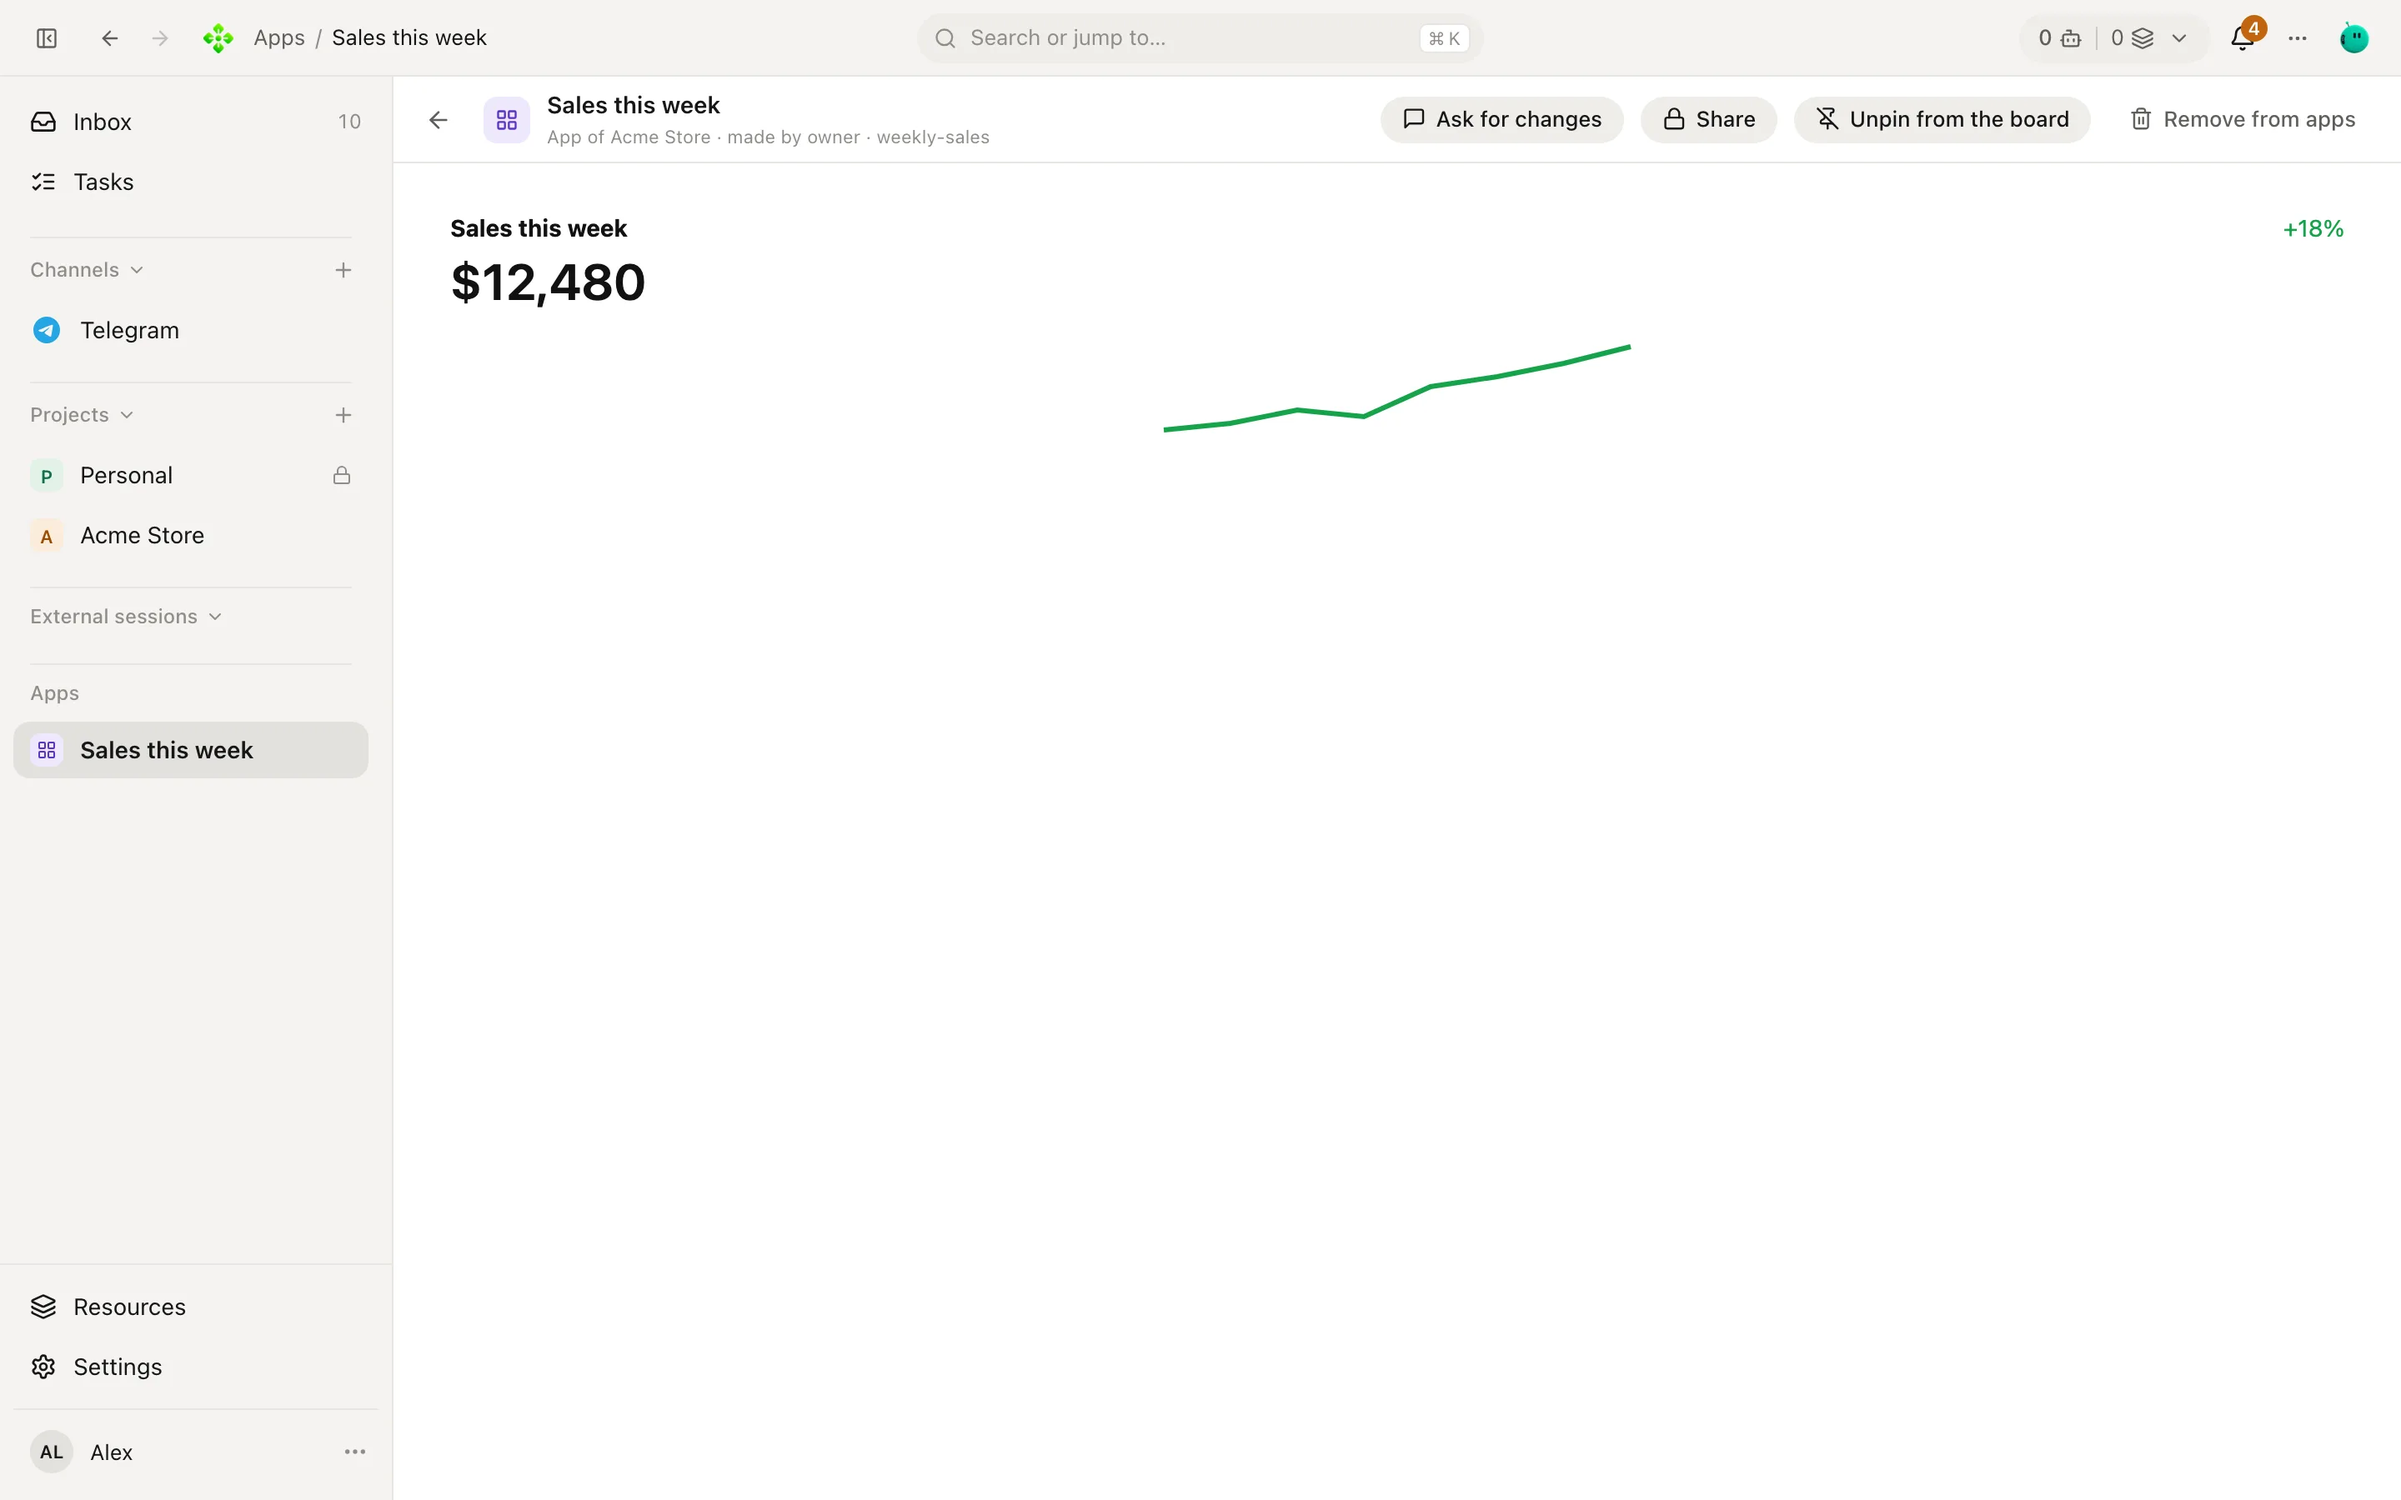
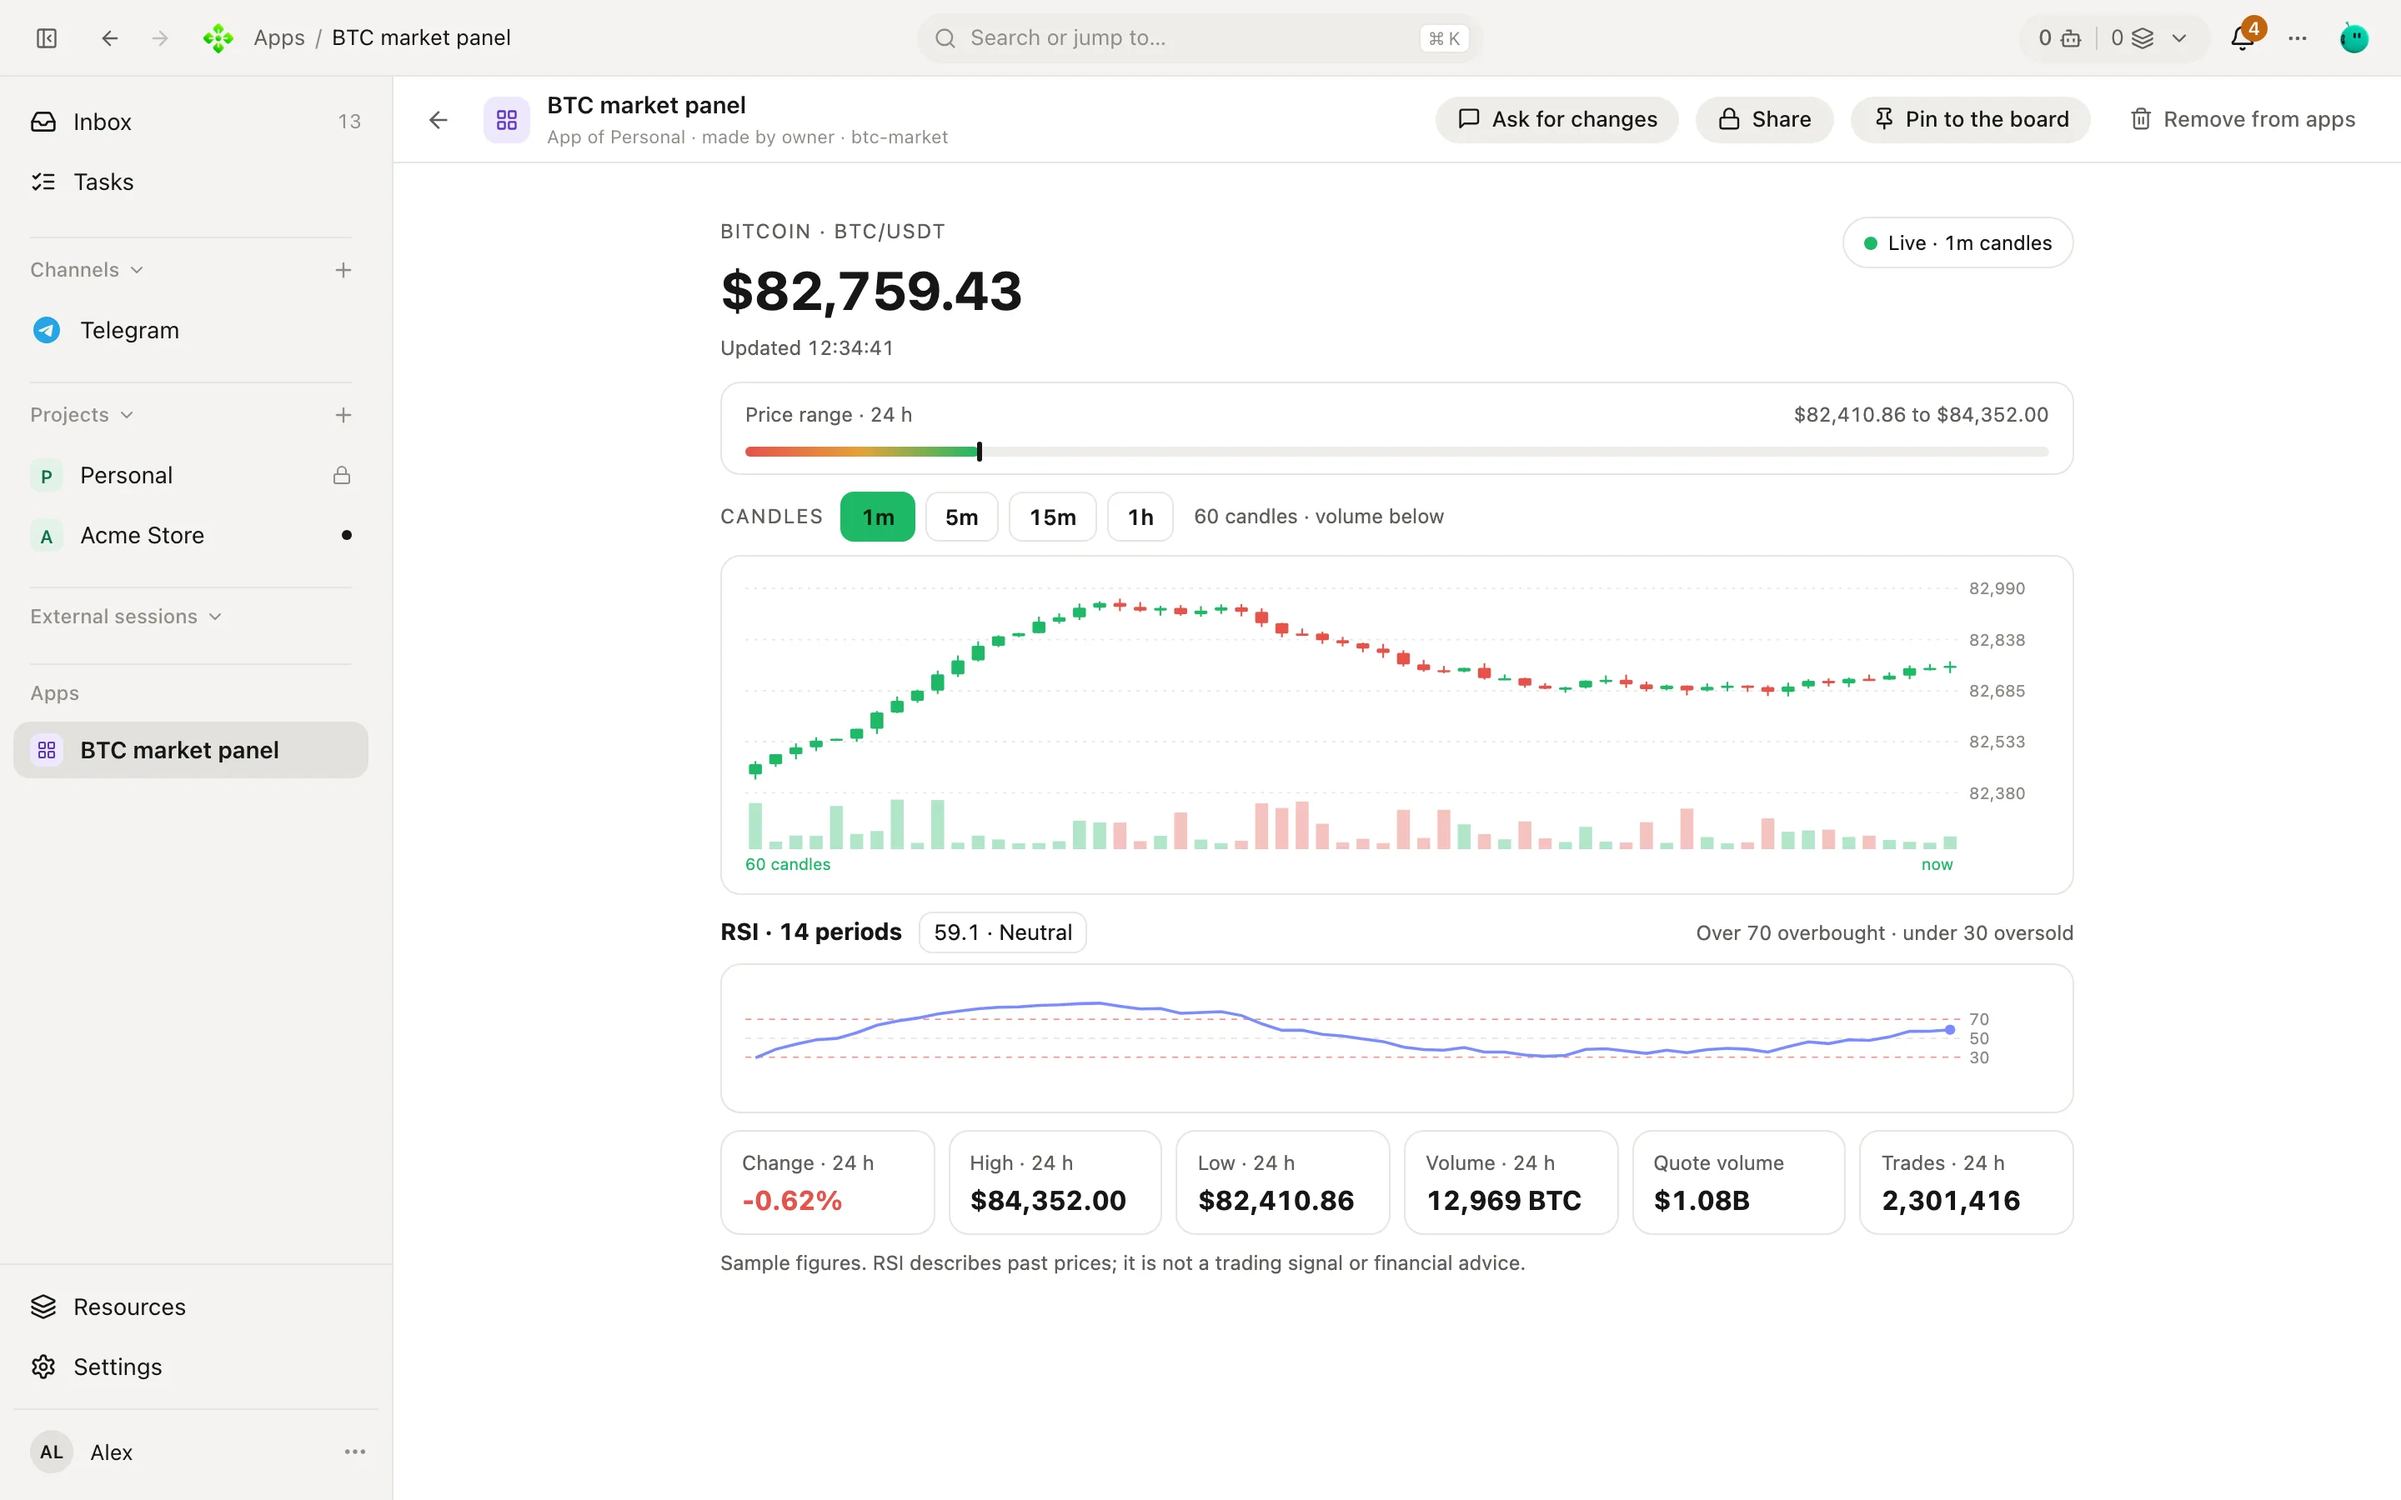
docs(site): the App screenshot shows a BTC market panel instead of a near-empty sales chart

diff --git a/apps/docs/scripts/demo-widgets/btc.html b/apps/docs/scripts/demo-widgets/btc.html
@@ -1,0 +1,158 @@
+<!doctype html>
+<html>
+<head>
+<style>
+:root{--up:#1fb866;--down:#e5534b}
+.w{max-width:860px;margin:0 auto;padding:16px 24px 14px;font-variant-numeric:tabular-nums}
+.k{font-size:12px;letter-spacing:.08em;text-transform:uppercase;color:var(--apx-fg-muted)}
+.row{display:flex;justify-content:space-between;align-items:center;gap:12px}
+.px{font-size:32px;font-weight:700;letter-spacing:-.01em;margin:4px 0 2px}
+.sub{font-size:12px;color:var(--apx-fg-muted)}
+.pill{border:1px solid var(--apx-border);border-radius:999px;padding:6px 12px;font-size:12px;display:flex;gap:7px;align-items:center;white-space:nowrap}
+.dot{width:8px;height:8px;border-radius:50%;background:var(--up)}
+.card{border:1px solid var(--apx-border);border-radius:12px;background:var(--apx-surface);padding:12px 14px}
+.range{margin:12px 0 10px;padding:10px 14px}
+.bar{position:relative;height:6px;border-radius:3px;background:var(--apx-fill);margin-top:10px}
+.bar i{position:absolute;inset:0 auto 0 0;border-radius:3px;background:linear-gradient(90deg,var(--down),#e3a33b,var(--up))}
+.bar b{position:absolute;top:-3px;width:3px;height:12px;border-radius:2px;background:var(--apx-fg)}
+.chips{display:flex;gap:6px;align-items:center}
+.chips button{font:inherit;font-size:13px;font-weight:600;border:1px solid var(--apx-border);background:transparent;color:var(--apx-fg);border-radius:8px;padding:5px 11px;cursor:pointer}
+.chips button[aria-pressed=true]{background:var(--up);border-color:var(--up);color:#06210f}
+svg{display:block;width:100%;height:auto}
+svg text{font-size:11px;fill:var(--apx-fg-subtle)}
+.grid{stroke:var(--apx-border)}
+.rsi{display:flex;gap:10px;align-items:center;margin:10px 0 6px}
+.tag{border:1px solid var(--apx-border);border-radius:8px;padding:2px 8px;font-size:13px}
+.stats{display:grid;grid-template-columns:repeat(6,1fr);gap:8px;margin-top:10px}
+.stats .card{padding:8px 12px}
+.stats b{display:block;font-size:16px;margin-top:2px}
+.note{font-size:12px;color:var(--apx-fg-muted);margin:8px 0 0}
+@media (max-width:640px){.stats{grid-template-columns:repeat(2,1fr)}}
+</style>
+</head>
+<body>
+<div class="w">
+  <div class="row" style="align-items:flex-start">
+    <div>
+      <div class="k">Bitcoin · BTC/USDT</div>
+      <div class="px" id="price">$82,732.19</div>
+      <div class="sub">Updated 12:34:41</div>
+    </div>
+    <div class="pill"><span class="dot"></span><span id="feed">Live · 1m candles</span></div>
+  </div>
+
+  <div class="card range">
+    <div class="row sub"><span>Price range · 24 h</span><span>$82,410.86 to $84,352.00</span></div>
+    <div class="bar"><i id="fill"></i><b id="mark"></b></div>
+  </div>
+
+  <div class="row" style="margin-bottom:8px">
+    <div class="chips"><span class="k" style="margin-right:4px">Candles</span>
+      <button aria-pressed="true">1m</button><button>5m</button><button>15m</button><button>1h</button>
+      <span class="sub" style="margin-left:6px">60 candles · volume below</span></div>
+  </div>
+  <div class="card"><svg id="candles" viewBox="0 0 880 200"></svg></div>
+
+  <div class="rsi"><b>RSI · 14 periods</b><span class="tag" id="rsiv"></span>
+    <span class="sub" style="margin-left:auto">Over 70 overbought · under 30 oversold</span></div>
+  <div class="card"><svg id="rsi" viewBox="0 0 880 72"></svg></div>
+
+  <div class="stats">
+    <div class="card"><span class="sub">Change · 24 h</span><b style="color:var(--down)">-0.62%</b></div>
+    <div class="card"><span class="sub">High · 24 h</span><b>$84,352.00</b></div>
+    <div class="card"><span class="sub">Low · 24 h</span><b>$82,410.86</b></div>
+    <div class="card"><span class="sub">Volume · 24 h</span><b>12,969 BTC</b></div>
+    <div class="card"><span class="sub">Quote volume</span><b>$1.08B</b></div>
+    <div class="card"><span class="sub">Trades · 24 h</span><b>2,301,416</b></div>
+  </div>
+  <p class="note">Sample figures. RSI describes past prices; it is not a trading signal or financial advice.</p>
+</div>
+<script>
+(function () {
+  var LOW = 82410.86, HIGH = 84352.0, N = 60, P = 14;
+  var NS = "http://www.w3.org/2000/svg";
+  function rng(seed) { return function () { seed |= 0; seed = (seed + 0x6d2b79f5) | 0; var t = Math.imul(seed ^ (seed >>> 15), 1 | seed); t = (t + Math.imul(t ^ (t >>> 7), 61 | t)) ^ t; return ((t ^ (t >>> 14)) >>> 0) / 4294967296; }; }
+  function el(svg, name, attrs) { var e = document.createElementNS(NS, name); for (var k in attrs) e.setAttribute(k, attrs[k]); svg.appendChild(e); return e; }
+  function money(v) { return "$" + v.toLocaleString("en-US", { minimumFractionDigits: 2, maximumFractionDigits: 2 }); }
+
+  function series(seed, vol) {
+    var r = rng(seed), c = [], p = 100, drift = 0;
+    for (var i = 0; i < N + P; i++) {
+      drift = drift * 0.9 + (r() - 0.5) * 0.7 + (i > 30 && i < 50 ? -0.12 : 0.03);
+      var o = p, cl = o + drift * vol + (r() - 0.5) * vol * 1.8;
+      var hi = Math.max(o, cl) + r() * vol * 0.6, lo = Math.min(o, cl) - r() * vol * 0.6;
+      c.push({ o: o, c: cl, h: hi, l: lo, v: Math.pow(r(), 3) });
+      p = cl;
+    }
+    var shown = c.slice(P), min = Infinity, max = -Infinity;
+    shown.forEach(function (k) { min = Math.min(min, k.l); max = Math.max(max, k.h); });
+    var a = 82420, b = 82960, s = function (x) { return a + ((x - min) / (max - min)) * (b - a); };
+    c.forEach(function (k) { k.o = s(k.o); k.c = s(k.c); k.h = s(k.h); k.l = s(k.l); });
+    return c;
+  }
+
+  function rsi(c) {
+    var out = [], g = 0, l = 0;
+    for (var i = 1; i < c.length; i++) {
+      var d = c[i].c - c[i - 1].c, up = Math.max(d, 0), dn = Math.max(-d, 0);
+      if (i <= P) { g += up / P; l += dn / P; } else { g = (g * (P - 1) + up) / P; l = (l * (P - 1) + dn) / P; }
+      if (i >= P) out.push(l === 0 ? 100 : 100 - 100 / (1 + g / l));
+    }
+    return out.slice(-N);
+  }
+
+  function draw(seed, vol) {
+    var all = series(seed, vol), c = all.slice(P), svg = document.getElementById("candles");
+    svg.textContent = "";
+    var W = 820, top = 8, H = 138, vTop = 150, vH = 30, lo = 82380, hi = 82990;
+    var y = function (v) { return top + ((hi - v) / (hi - lo)) * H; };
+    for (var g = 0; g < 5; g++) {
+      var v = lo + ((hi - lo) * (4 - g)) / 4, gy = y(v);
+      el(svg, "line", { x1: 0, x2: W, y1: gy, y2: gy, class: "grid", "stroke-dasharray": "2 4" });
+      el(svg, "text", { x: W + 6, y: gy + 4 }).textContent = v.toLocaleString("en-US", { maximumFractionDigits: 0 });
+    }
+    var step = W / N;
+    c.forEach(function (k, i) {
+      var x = i * step + step / 2, color = k.c >= k.o ? "var(--up)" : "var(--down)";
+      el(svg, "line", { x1: x, x2: x, y1: y(k.h), y2: y(k.l), stroke: color, "stroke-width": 1.2 });
+      var bt = y(Math.max(k.o, k.c)), bh = Math.max(1.5, Math.abs(y(k.o) - y(k.c)));
+      el(svg, "rect", { x: x - step * 0.32, y: bt, width: step * 0.64, height: bh, fill: color, rx: 1 });
+      var vh = 4 + k.v * vH;
+      el(svg, "rect", { x: x - step * 0.32, y: vTop + vH - vh + 4, width: step * 0.64, height: vh, fill: color, opacity: 0.35 });
+    });
+    el(svg, "text", { x: 0, y: 198, style: "fill:var(--up)" }).textContent = "60 candles";
+    el(svg, "text", { x: W - 26, y: 198, style: "fill:var(--up)" }).textContent = "now";
+
+    var last = c[c.length - 1].c;
+    document.getElementById("price").textContent = money(last);
+    var pos = ((last - LOW) / (HIGH - LOW)) * 100;
+    document.getElementById("fill").style.width = pos + "%";
+    document.getElementById("mark").style.left = "calc(" + pos + "% - 1px)";
+
+    var r = rsi(all), rs = document.getElementById("rsi");
+    rs.textContent = "";
+    var ry = function (v) { return 4 + ((100 - v) / 100) * 64; };
+    [70, 50, 30].forEach(function (v) {
+      el(rs, "line", { x1: 0, x2: W, y1: ry(v), y2: ry(v), stroke: v === 50 ? "var(--apx-border)" : "var(--down)", "stroke-dasharray": "4 4", opacity: v === 50 ? 1 : 0.6 });
+      el(rs, "text", { x: W + 6, y: ry(v) + 4 }).textContent = String(v);
+    });
+    var pts = r.map(function (v, i) { return (i * step + step / 2).toFixed(1) + "," + ry(v).toFixed(1); }).join(" ");
+    el(rs, "polyline", { points: pts, fill: "none", stroke: "#7c8cff", "stroke-width": 2 });
+    var lv = r[r.length - 1], lp = pts.split(" ").pop().split(",");
+    el(rs, "circle", { cx: lp[0], cy: lp[1], r: 3.5, fill: "#7c8cff" });
+    document.getElementById("rsiv").textContent = lv.toFixed(1) + " · " + (lv > 70 ? "Overbought" : lv < 30 ? "Oversold" : "Neutral");
+  }
+
+  var buttons = document.querySelectorAll(".chips button"), vols = [22, 34, 48, 70];
+  buttons.forEach(function (b, i) {
+    b.addEventListener("click", function () {
+      buttons.forEach(function (o) { o.setAttribute("aria-pressed", String(o === b)); });
+      document.getElementById("feed").textContent = "Live · " + b.textContent + " candles";
+      draw(7 + i * 13, vols[i]);
+    });
+  });
+  draw(7, vols[0]);
+})();
+</script>
+</body>
+</html>

diff --git a/apps/docs/scripts/demo-seed.ts b/apps/docs/scripts/demo-seed.ts
@@ -159,6 +159,7 @@ const WIDGET_SALES = `<!doctype html><html><body style="margin:0;font:14px syste
 <div style="font-size:30px;font-weight:600;margin:6px 0 10px">$12,480</div>
 <svg viewBox="0 0 280 80" width="100%" height="80"><polyline fill="none" stroke="#16a34a" stroke-width="3" points="0,62 40,58 80,50 120,54 160,36 200,30 240,22 280,12"/></svg>
 </body></html>`;
+const WIDGET_BTC = fs.readFileSync(path.join(import.meta.dirname, "demo-widgets", "btc.html"), "utf8");
 const WIDGET_LAUNCH = `<!doctype html><html><body style="margin:0;font:14px system-ui;color:#111;padding:14px">
 <b>Q4 launch</b><ul style="padding-left:18px;line-height:1.9;margin:8px 0 0">
 <li>✅ Freeze the catalog</li><li>✅ Fix the checkout</li><li>⏳ Landing page and emails</li><li>⬜ Black Friday campaign</li></ul>
@@ -388,8 +389,14 @@ export async function seed(rpc: Rpc, world: { repo: string; extension: string },
       title: "Sales this week",
       html: WIDGET_SALES,
       pinned: true,
-      app: true,
       thread,
+    });
+    await rpc("surfaces.show", {
+      name: "btc-market",
+      title: "BTC market panel",
+      html: WIDGET_BTC,
+      app: true,
+      thread: "home",
     });
     await rpc("surfaces.show", { name: "q4-launch", title: "Q4 launch", html: WIDGET_LAUNCH, pinned: true, thread });
   });

diff --git a/apps/docs/scripts/shots.ts b/apps/docs/scripts/shots.ts
@@ -217,7 +217,7 @@ const SHOTS: Shot[] = [
     name: "app-widget",
     go: async (p) => {
       await at("thread=home")(p);
-      await p.getByRole("complementary").getByRole("button", { name: "Sales this week" }).first().click();
+      await p.getByRole("complementary").getByRole("button", { name: "BTC market panel" }).first().click();
     },
   },
   {
